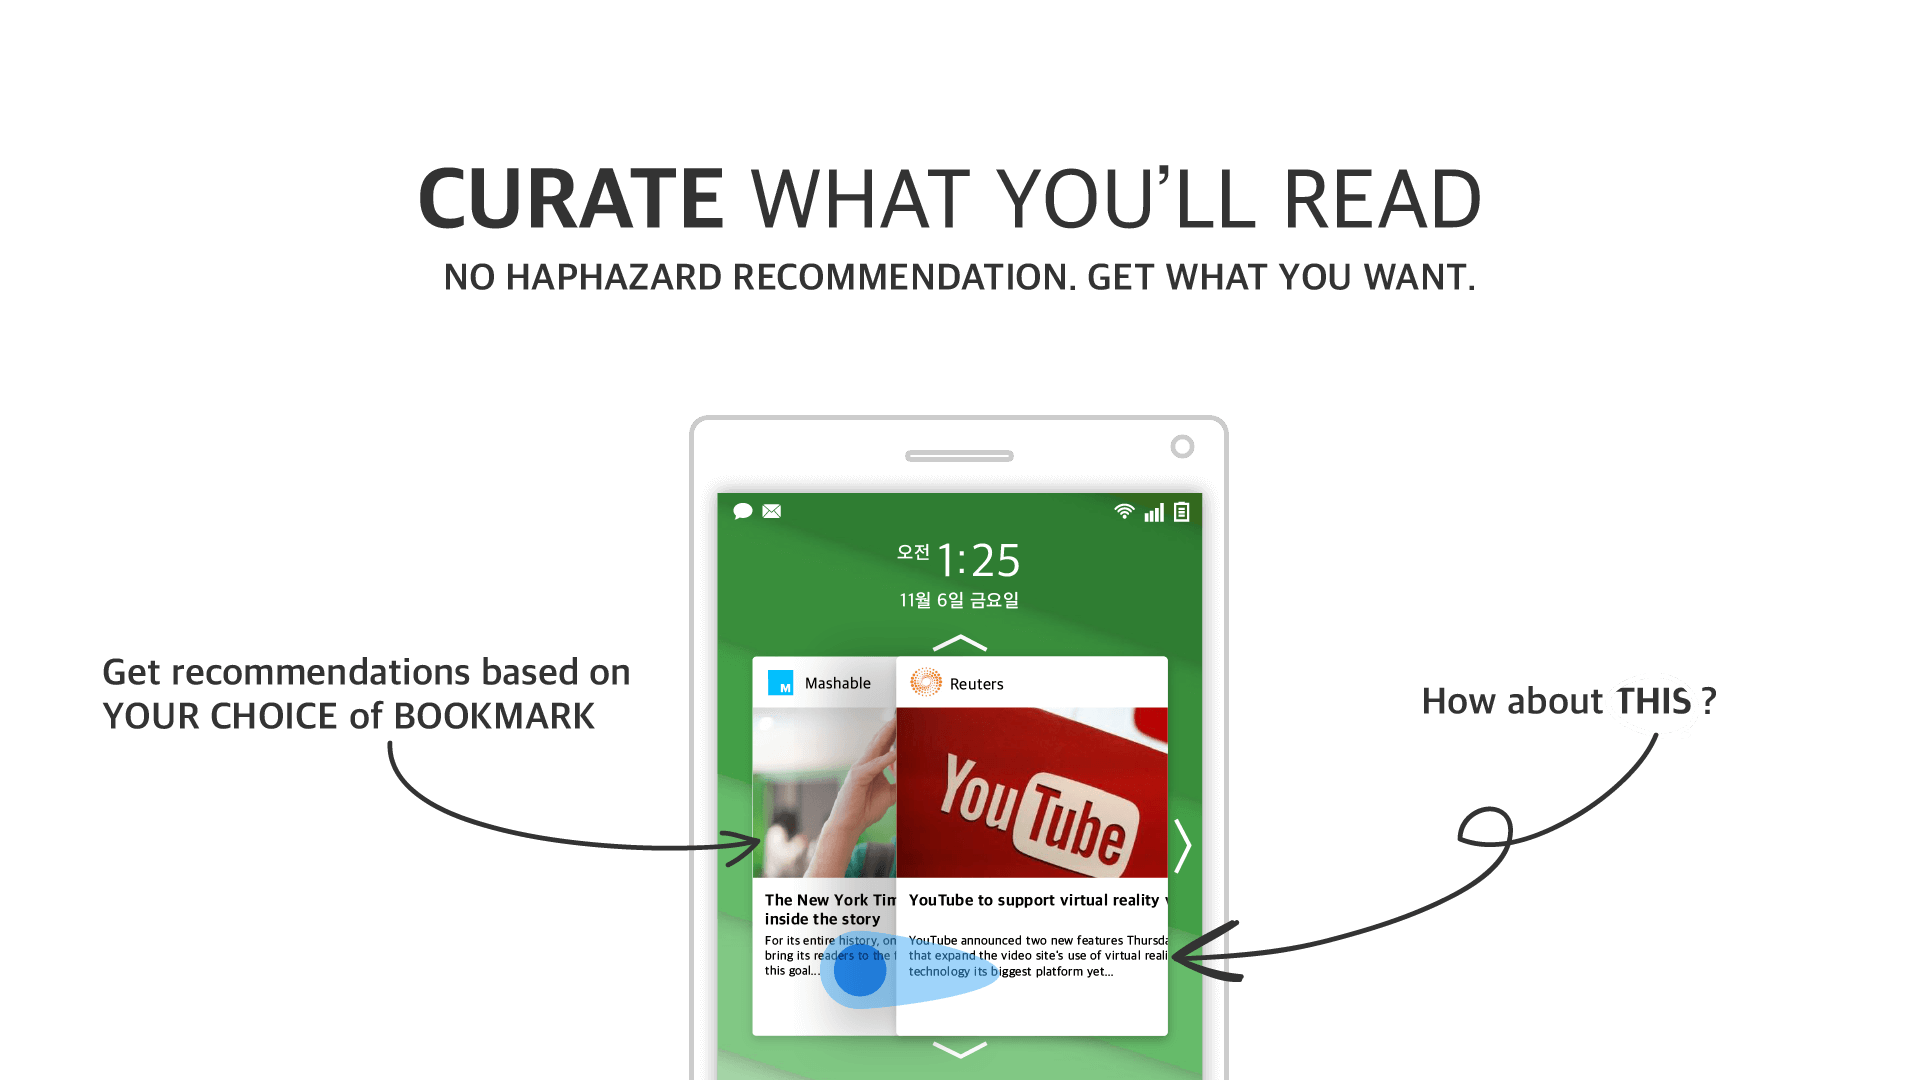
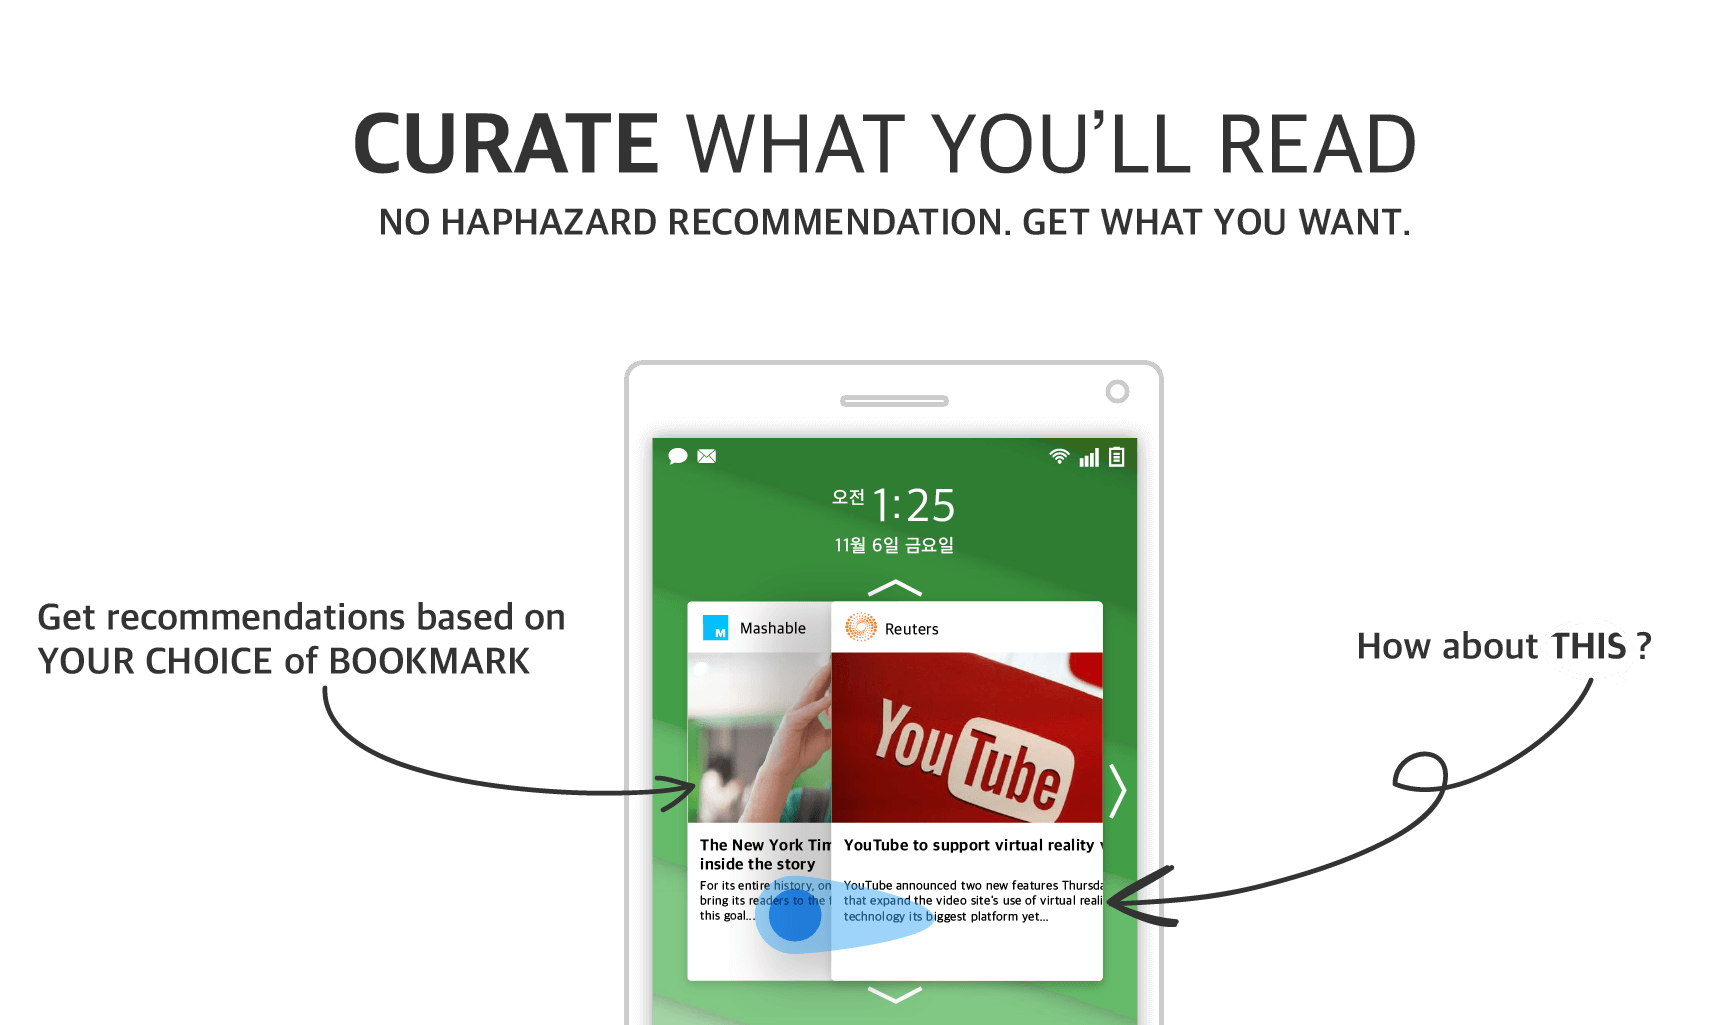
Bslide framer gif
Bslide framer gif added and layout fixed

diff --git a/src/pages/work/bslide/bslide.js b/src/pages/work/bslide/bslide.js
@@ -12,6 +12,7 @@ import Heading from '../../../components/work/mini/heading';
 
 import read from '../../../img/work/bslide/read.png';
 import curate from '../../../img/work/bslide/curate.png';
+import bGif from '../../../img/work/bslide/bslideGif.gif';
 import interviewees from '../../../img/work/bslide/interviewees.png';
 import interviewECoding from '../../../img/work/bslide/interview-E-coding.png';
 import interviewOrganizing from '../../../img/work/bslide/interview-organizing.png';
@@ -26,8 +27,6 @@ import primary1 from '../../../img/work/bslide/primary1.png';
 import primary2 from '../../../img/work/bslide/primary2.jpg';
 import primary3 from '../../../img/work/bslide/primary3.jpg';
 import primary4 from '../../../img/work/bslide/primary4.jpg';
-import primaryRequirements from '../../../img/work/bslide/primary-requirements.png';
-import secondaryRequirements from '../../../img/work/bslide/secondary-requirements.png';
 import imageMap from '../../../img/work/bslide/imageMapping.png';
 import whyLockscreen from '../../../img/work/bslide/why-lockscreen.png';
 import journeyMap from '../../../img/work/bslide/journey-map.png';
@@ -105,7 +104,7 @@ class Bslide extends Component {
 
 
           <div className="flex justify-between">
-            <div className="problem half">
+            <div className="problem sixty">
               <p  className="title">Target User Group</p>
               <p>University students in Korea, who bookmark in social media</p>
               <p className="title">Problem</p>
@@ -113,12 +112,12 @@ class Bslide extends Component {
               <p  className="title">Solution</p>
               <p>B-slide prompts user by showing <b>bookmarked contents on the lock-screen</b> as compact cards. <b>By swiping vertically, user can browse bookmarked contents; by swiping horizontally, user can get new contents based on current content</b>.</p>
             </div>
-            <div className="half">
+            <div className="forty">
               <p className="title">My role</p>
               <ul>
                 <li>Team leader</li>
-                <li>Prepared and conducting user interview</li>
-                <li>Analyzed information through coding</li>
+                <li>Prepared and conducting interview</li>
+                <li>Coded and analyzed data</li>
                 <li>Lead persona development process</li>
                 <li>Extracted requirements and applied them to use cases and UI map</li>
                 <li>Planned journey map branches</li>
@@ -130,8 +129,16 @@ class Bslide extends Component {
                 </p>
             </div>
           </div>
-          <img className="eighty center" src={read} alt="Read the stuff that you always plan to but never do. We will notify you lock-screen hen it's good time to read."/>
-          <img className="eighty center" src={curate} alt="Curate what you'll read. No haphazard recommendation. Get what you want."/>
+          <div className="flex justify-between">
+            <div className="sixty">
+              <img className="center" src={read} alt="Read the stuff that you always plan to but never do. We will notify you lock-screen hen it's good time to read."/>
+              <img className="center" src={curate} alt="Curate what you'll read. No haphazard recommendation. Get what you want."/>
+            </div>
+            <div className="forty">
+              <img className="gif center" src={bGif} alt="gif image of prototype"/>
+            </div>
+          </div>
+
           <br/>
           <div className="spark-wrapper">
             <h3 className="heading" >Process</h3>

diff --git a/src/pages/work/bslide/bslide.css b/src/pages/work/bslide/bslide.css
@@ -17,3 +17,7 @@
 .primary-bio p {
     padding: 0 20px;
 }
+.gif {
+    width: 270px;
+    height: 551px;
+}
